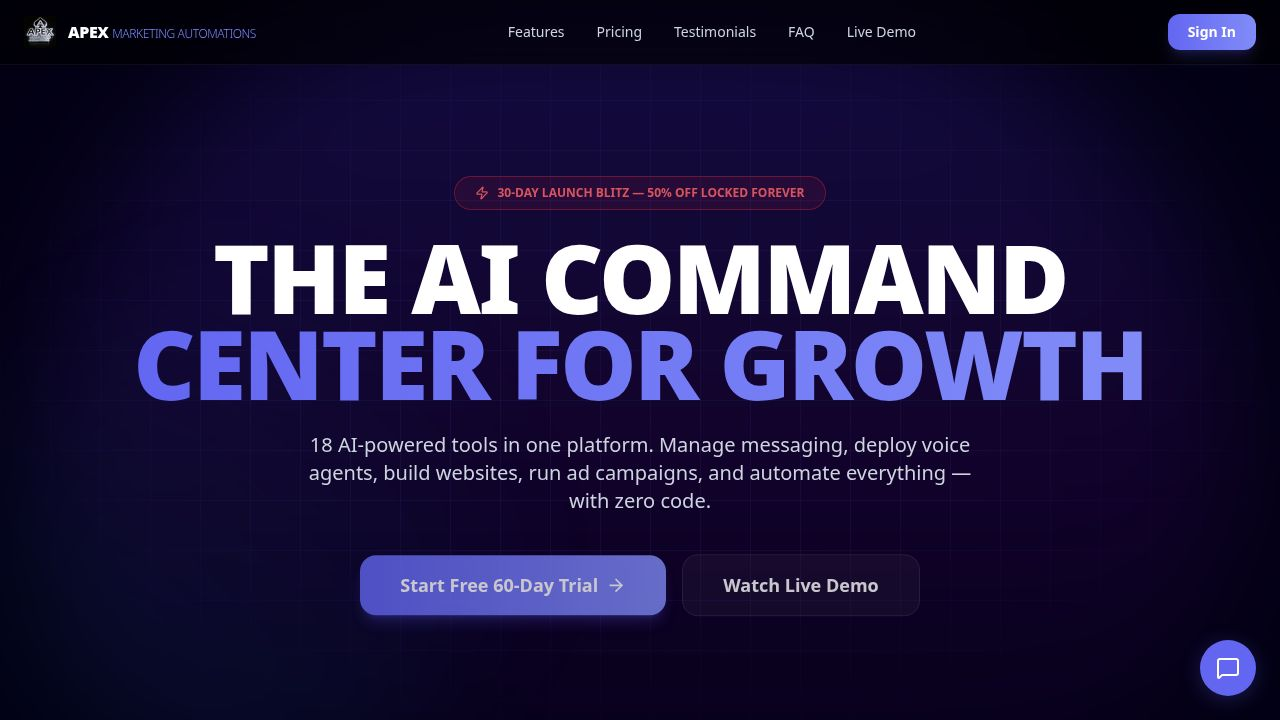
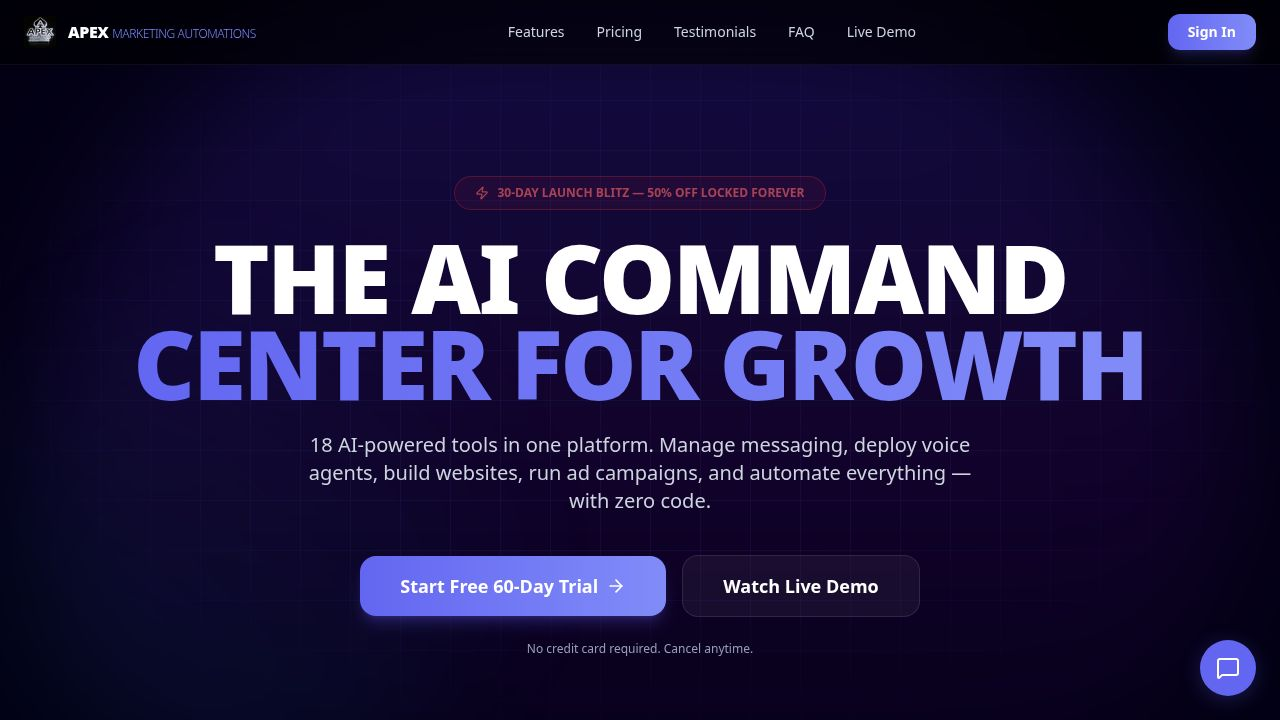
Update website to accept new chaturbate event formats
Adjust webhook handler to support multiple payload structures and extract data correctly.

Replit-Commit-Author: Agent
Replit-Commit-Session-Id: 9a2f431c-90dc-4297-9560-5e22980c1d5b
Replit-Commit-Checkpoint-Type: full_checkpoint
Replit-Commit-Event-Id: 56335f1c-2545-4342-ad67-60fbe8366657
Replit-Commit-Screenshot-Url: https://storage.googleapis.com/screenshot-production-us-central1/55a31994-e873-464b-93ad-04f3d104c1c5/9a2f431c-90dc-4297-9560-5e22980c1d5b/2SVGqmJ
Replit-Helium-Checkpoint-Created: true

diff --git a/server/routes/chaturbate.ts b/server/routes/chaturbate.ts
@@ -24,7 +24,13 @@ export function registerChaturbateRoutes(app: Express) {
         return;
       }
 
-      const { event, username, user, amount, viewers } = req.body;
+      const raw = req.body;
+      const event = raw.event || raw.type;
+      const username = raw.username || raw.cbUsername;
+      const data = raw.data || {};
+      const user = raw.user || data.username;
+      const amount = raw.amount || data.tokens;
+      const viewers = raw.viewers || data.viewers;
       if (!event || !username) return;
 
       const [account] = await db.select().from(subAccounts)
@@ -38,7 +44,9 @@ export function registerChaturbateRoutes(app: Express) {
       const goalTokens = account.cbGoalTokens || 500;
 
       if (event === "broadcast_start") {
-        const session = createFreshSession(subAccountId, goalTokens);
+        const overrideGoal = data.goalTokens ? parseInt(data.goalTokens) : null;
+        const effectiveGoal = overrideGoal || goalTokens;
+        const session = createFreshSession(subAccountId, effectiveGoal);
         activeSessions.set(subAccountId, session);
         broadcastToAccount(subAccountId, "roomos:broadcast_start", { session });
         publishEvent("cb.session.started", { subAccountId, username }, "roomos");